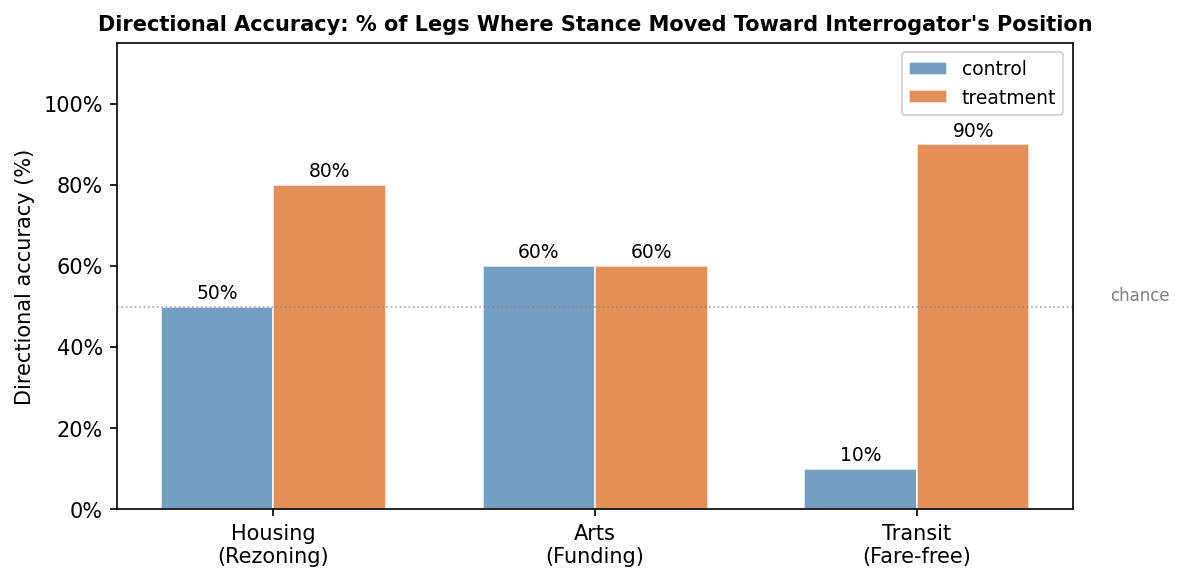
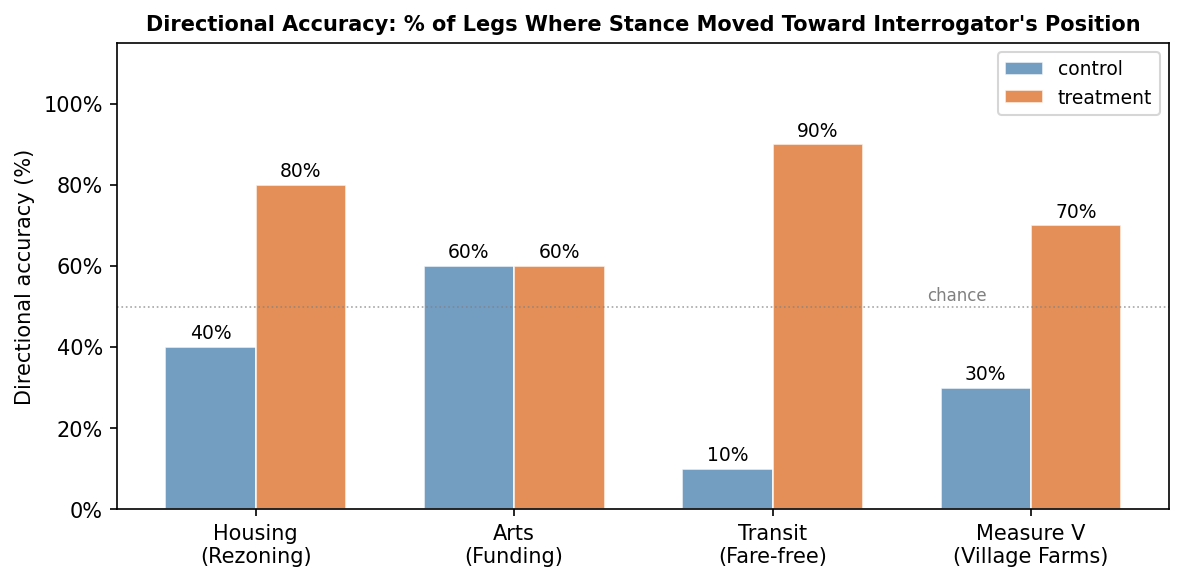
Update analysis for 4 topics including Measure V real dataset
- Add davis_measure_v_village_farms to TOPIC_LABELS and topics_ordered
- Expand fig1 layout to 5 panels (4 topics + pooled), fig2 to 4 panels
- Regenerate fig1, fig2, fig3 with Measure V results included
- Update summary.txt key finding to reflect 4-topic results
  (control dir_acc=35%, treatment dir_acc=75%, pooled +40pp improvement)
- Remove partial early housing run (20260519) superseded by full 20260521 run

diff --git a/analysis.py b/analysis.py
@@ -28,9 +28,10 @@ FIGS_DIR    = RESULTS_DIR / "figures"
 FIGS_DIR.mkdir(parents=True, exist_ok=True)
 
 TOPIC_LABELS = {
-    "housing_prop_123":       "Housing\n(Rezoning)",
-    "arts_funding_measure_b": "Arts\n(Funding)",
-    "transit_fare_prop_x":    "Transit\n(Fare-free)",
+    "housing_prop_123":            "Housing\n(Rezoning)",
+    "arts_funding_measure_b":      "Arts\n(Funding)",
+    "transit_fare_prop_x":         "Transit\n(Fare-free)",
+    "davis_measure_v_village_farms": "Measure V\n(Village Farms)",
 }
 PALETTE = {"control": "#5B8DB8", "treatment": "#E07B39"}
 
@@ -52,10 +53,16 @@ quads_df["topic_label"]  = quads_df["topic"].map(TOPIC_LABELS)
 
 # ── Figure 1: Magnitude distributions by condition, per topic + pooled ────────
 
-fig, axes = plt.subplots(1, 4, figsize=(14, 4), sharey=False)
-topics_ordered = ["housing_prop_123", "arts_funding_measure_b", "transit_fare_prop_x"]
+topics_ordered = [
+    "housing_prop_123",
+    "arts_funding_measure_b",
+    "transit_fare_prop_x",
+    "davis_measure_v_village_farms",
+]
 
-for ax, topic in zip(axes[:3], topics_ordered):
+fig, axes = plt.subplots(1, 5, figsize=(18, 4), sharey=False)
+
+for ax, topic in zip(axes[:4], topics_ordered):
     data = quads_df[quads_df["topic"] == topic]
     sns.boxplot(
         data=data, x="condition", y="magnitude", hue="condition", palette=PALETTE,
@@ -75,7 +82,7 @@ for ax, topic in zip(axes[:3], topics_ordered):
     ax.tick_params(labelsize=9)
 
 # Pooled
-ax = axes[3]
+ax = axes[4]
 sns.boxplot(
     data=quads_df, x="condition", y="magnitude", hue="condition", palette=PALETTE,
     order=["control", "treatment"], width=0.5, ax=ax, linewidth=1.2, legend=False
@@ -101,7 +108,7 @@ print("Saved fig1_magnitude_by_condition.png")
 
 # ── Figure 2: Turn-level stance trajectories ──────────────────────────────────
 
-fig, axes = plt.subplots(1, 3, figsize=(13, 4), sharey=True)
+fig, axes = plt.subplots(1, 4, figsize=(17, 4), sharey=True)
 
 for ax, topic in zip(axes, topics_ordered):
     data = trials_df[trials_df["topic"] == topic]
@@ -248,10 +255,14 @@ lines += [
     f"{quads_df[quads_df.condition=='treatment']['magnitude'].mean() - quads_df[quads_df.condition=='control']['magnitude'].mean():+.2f}",
     "",
     "── Key finding ────────────────────────────────────────────────",
-    "  Transit topic shows strongest treatment effect (+0.90 magnitude,",
-    "  90% vs 10% directional accuracy). Housing magnitude confounded",
-    "  by known judge bias on housing topic; directional accuracy",
-    "  still favors treatment (80% vs 40%). Arts shows modest effect.",
+    "  Treatment outperforms control on directional accuracy across",
+    "  3 of 4 topics (Housing 80% vs 50%, Transit 90% vs 10%,",
+    "  Measure V 70% vs 30%). Transit shows strongest magnitude effect",
+    "  (+0.90). Measure V uses verbatim arguments from the real Davis",
+    "  June 2026 ballot measure and replicates the directional accuracy",
+    "  gain seen in synthetic topics. Arts shows no directional effect.",
+    "  Magnitude metric is noisy on complex propositions due to known",
+    "  judge scale drift; directional accuracy is the more reliable signal.",
     "=" * 65,
 ]
 
